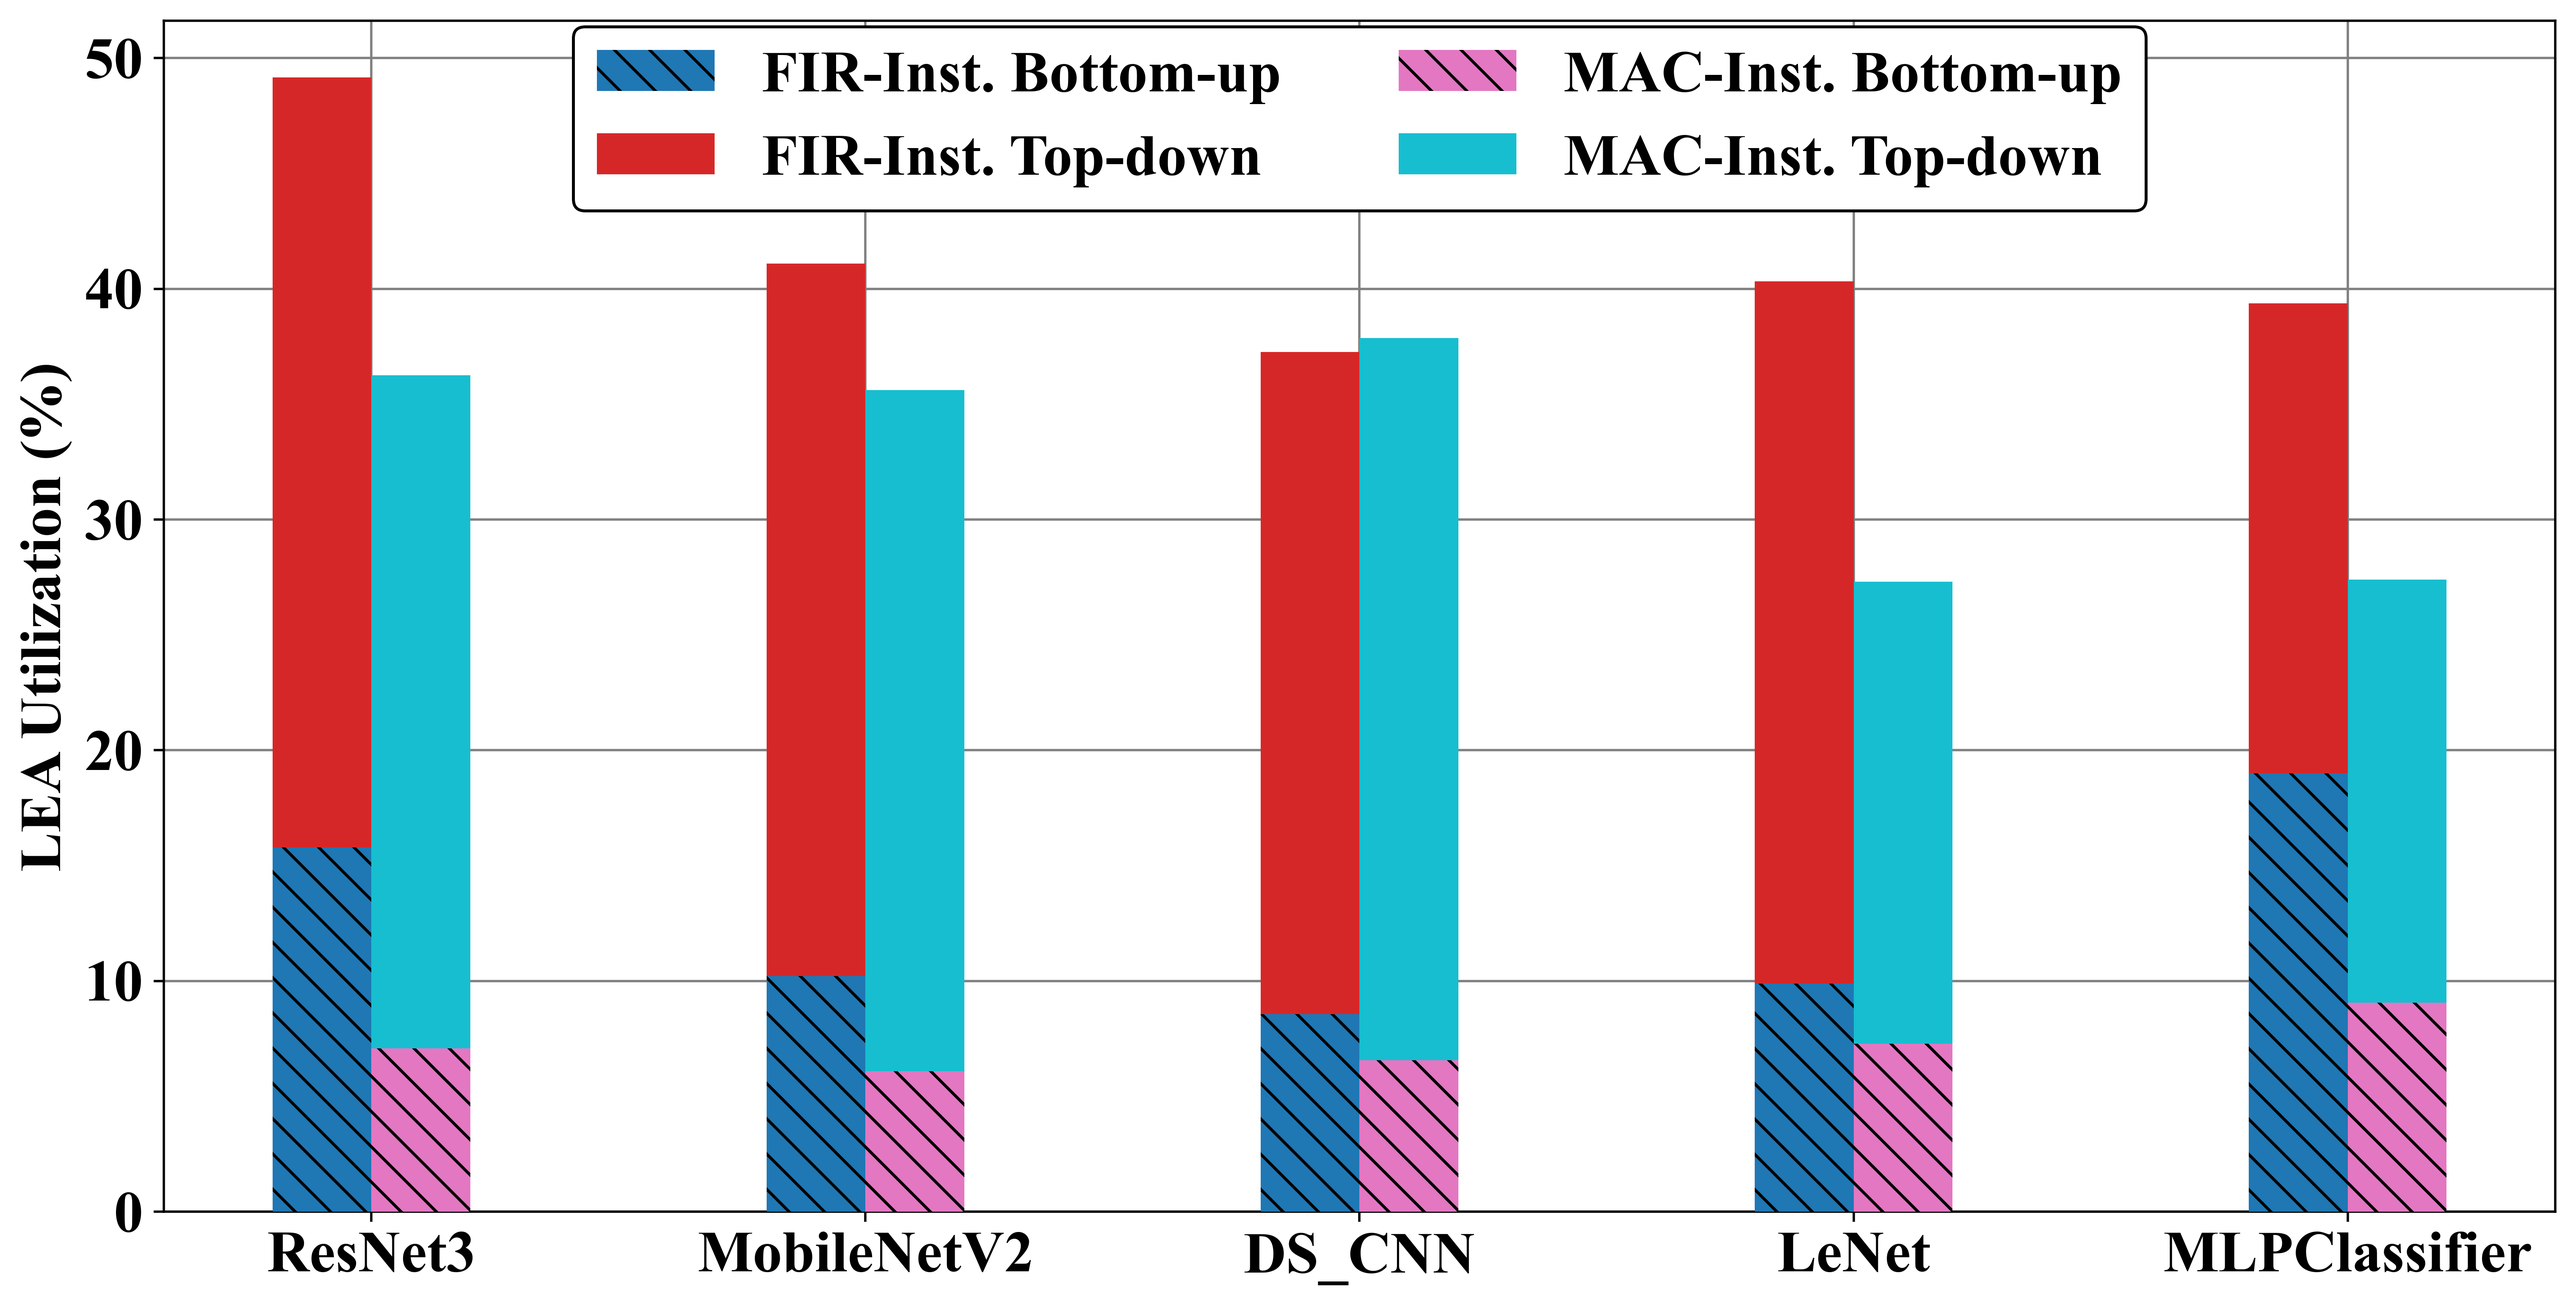
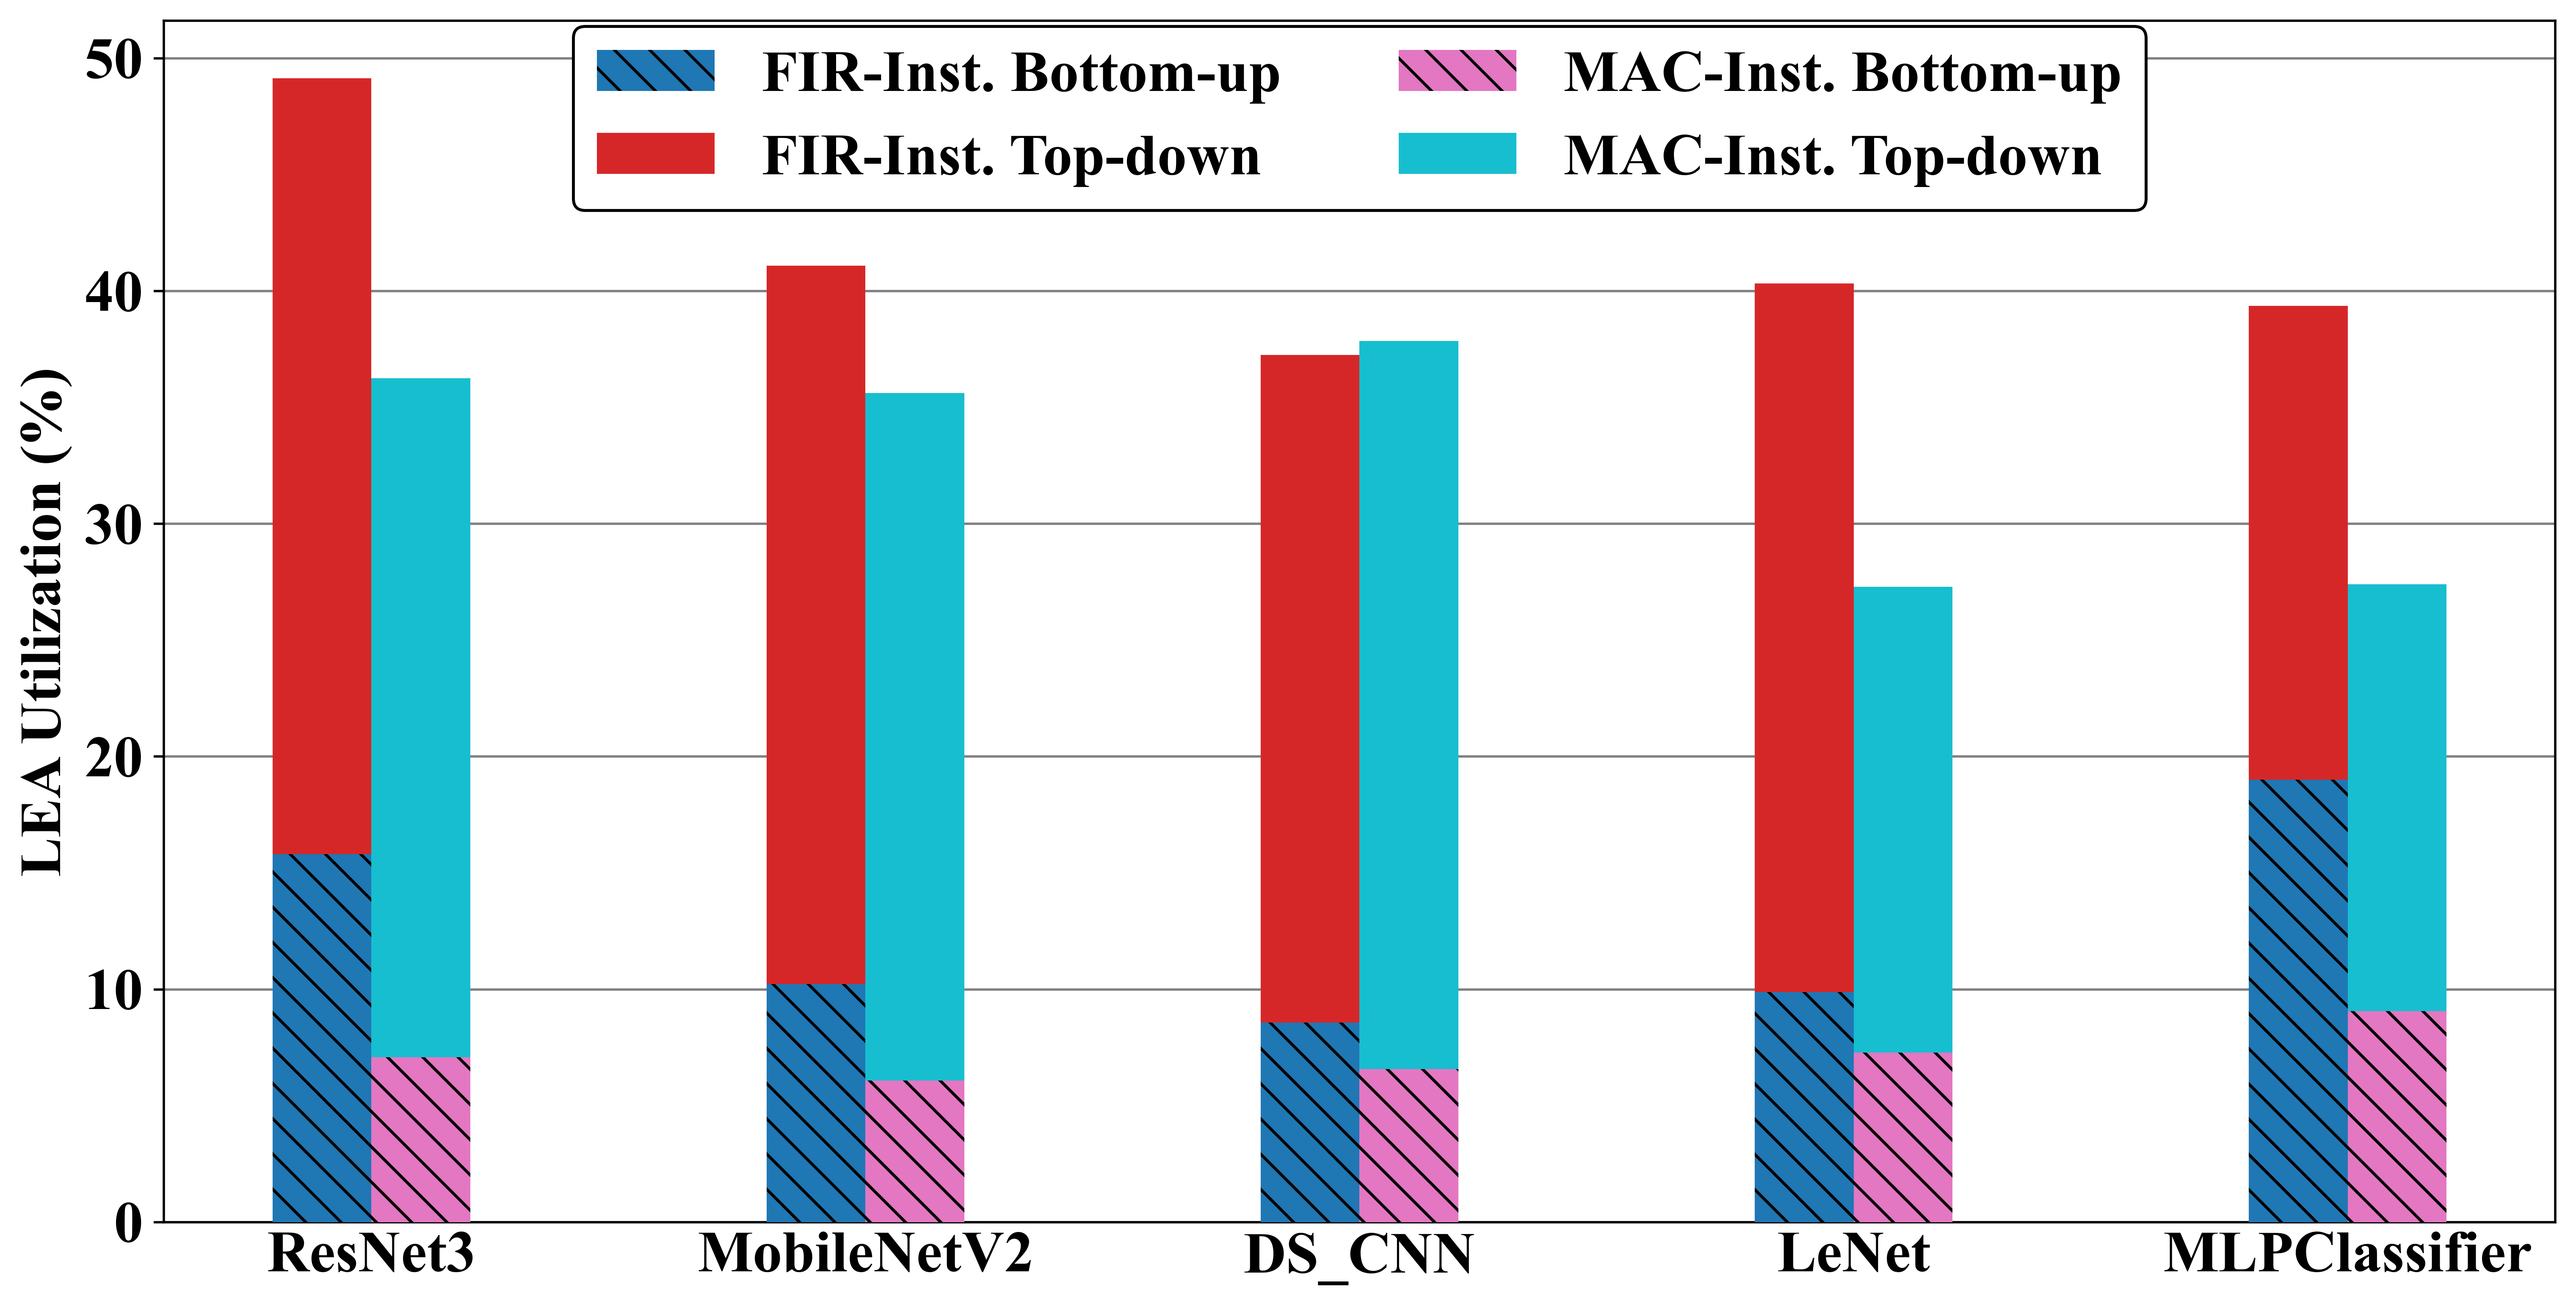
update

diff --git a/logs/utilization/plot.py b/logs/utilization/plot.py
@@ -68,10 +68,11 @@ ax.bar(x - width/2, fir_opt_values, width, bottom=fir_no_opt_values, label='FIR-
 ax.bar(x + width/2, mac_no_opt_values, width, label='MAC-Inst. Bottom-up', zorder=3, color=colors[2], hatch='\\\\')
 ax.bar(x + width/2, mac_opt_values, width, bottom=mac_no_opt_values, label='MAC-Inst. Top-down', zorder=3, color=colors[3])
 
-plt.grid(True, color='grey', zorder=0)
+plt.grid(True, axis='y', color='grey', zorder=0)
 ax.set_ylabel('LEA Utilization (%)')
 ax.set_xticks(x)
 ax.set_xticklabels(models)
+ax.xaxis.set_tick_params(length=0)
 ax.legend(ncol=2, loc='upper center', edgecolor='black', bbox_to_anchor=(0.5, 1.02), framealpha=1)
 
 plt.tight_layout()
